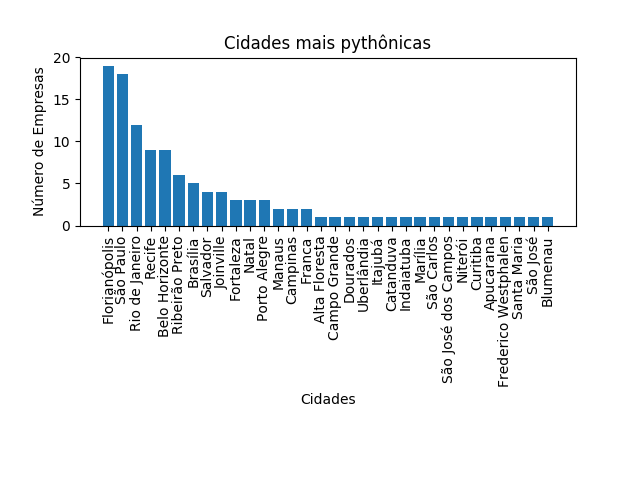
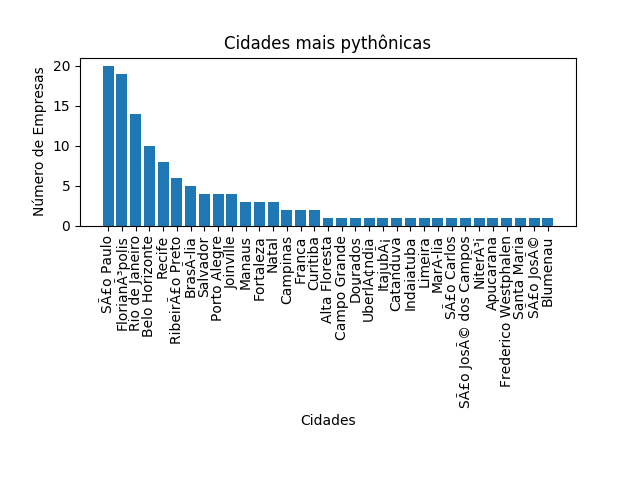
Adicionada a empresa Elipse

diff --git a/ranking/ranking.py b/ranking/ranking.py
@@ -1,4 +1,3 @@
-#!/usr/bin/env python
 # -*- coding: utf-8 -*- #
 
 import re

diff --git a/README.md b/README.md
@@ -123,6 +123,7 @@ Logo | Empresa | Site | Contato | Vagas
 ![logo](logos/silex-sistemas.png) | Sílex Sistemas | [http://www.silexsistemas.com.br/](http://www.silexsistemas.com.br/) | 55 31 3273-1530
 ![logo](logos/tivit.png) | TIVIT | [http://www.tivit.com/](http://www.tivit.com/)
 ![logo](logos/default.png) | ThoughtWorks | [https://www.thoughtworks.com/pt](https://www.thoughtworks.com/pt) | [https://www.thoughtworks.com/pt/careers](https://www.thoughtworks.com/pt/careers)
+![logo](logos/elipse.png) | Elipse Software | [https://www.elipse.com.br](https://www.elipse.com.br) | vendas-mg@elipse.com.br +55 (31) 4062 5824
 
 #### Uberlândia
 
@@ -223,6 +224,7 @@ Logo | Empresa | Site | Contato | Vagas
 ![logo](logos/pontotel.png) | PontoTel | [http://www.pontotel.com.br/](http://www.pontotel.com.br/) | dev@pontotel.com.br
 ![logo](logos/scielo.png) | Scielo | [http://www.scielo.org/php/index.php](http://www.scielo.org/php/index.php) | 55 (11) 5083-3639
 ![logo](logos/nuveo.png) | Nuveo | [https://nuveo.com.br](https://nuveo.com.br) | 55 (11) 3280-3132
+![logo](logos/elipse.png) | Elipse Software | [https://www.elipse.com.br](https://www.elipse.com.br) | vendas-sp@elipse.com.br +55 (11) 4062 5824
 
 ### Rio de Janeiro
 
@@ -249,6 +251,7 @@ Logo | Empresa | Site | Contato | Vagas
 ![logo](logos/default.png) | Sieve | [https://sieve.com.br/](https://sieve.com.br/) | ti.vagas@sieve.com.br ; victor.novaes@sieve.com.br
 ![logo](logos/default.png) | Stone | [http://www.stone.com.br/](http://www.stone.com.br/) | rportugal@stone.com.br
 ![logo](logos/storm-security.png) | Storm Security | [http://stormsec.com.br/](htto://stormsec.com.br/) | karina.garcia@stormsec.com.br
+![logo](logos/elipse.png) | Elipse Software | [https://www.elipse.com.br](https://www.elipse.com.br) | vendas-rj@elipse.com.br +55 (21) 2112 4682
 
 ## Sul
 
@@ -259,6 +262,7 @@ Logo | Empresa | Site | Contato | Vagas
 Logo | Empresa | Site | Contato | Vagas
  --- | --- | --- | --- | ---
 ![logo](logos/olist.png) | Olist | [https://olist.com](https://olist.com) | br@olist.com | https://bit.ly/olist-webdev
+![logo](logos/elipse.png) | Elipse Software | [https://www.elipse.com.br](https://www.elipse.com.br) | vendas-pr@elipse.com.br +55 (41) 4062 5824
 
 #### Apucarana
 
@@ -281,6 +285,7 @@ Logo | Empresa | Site | Contato | Vagas
 ![logo](logos/default.png) | Azion Technologies | [http://www.azion.com/](http://www.azion.com/) | marcelo.mallmann@azion.com
 ![logo](logos/globocom.png) | Globo.com | [http://www.globo.com/](http://www.globo.com/) |
 ![logo](logos/default.png) | ThoughtWorks | [https://www.thoughtworks.com/pt](https://www.thoughtworks.com/pt) | [https://www.thoughtworks.com/pt/careers](https://www.thoughtworks.com/pt/careers)
+![logo](logos/elipse.png) | Elipse Software | [https://www.elipse.com.br](https://www.elipse.com.br) | elipse@elipse.com.br +55 (51) 4062 5824
 
 #### Santa Maria
 
@@ -334,3 +339,4 @@ Logo | Empresa | Site | Contato | Vagas
 Logo | Empresa | Site | Contato | Vagas
  --- | --- | --- | --- | ---
 ![logo](logos/m2agro.png) | M2Agro | [http://www.m2agro.com.br](http://www.m2agro.com.br) | [http://www.m2agro.com.br/career/](http://www.m2agro.com.br/career/)
+**_`****`_**
